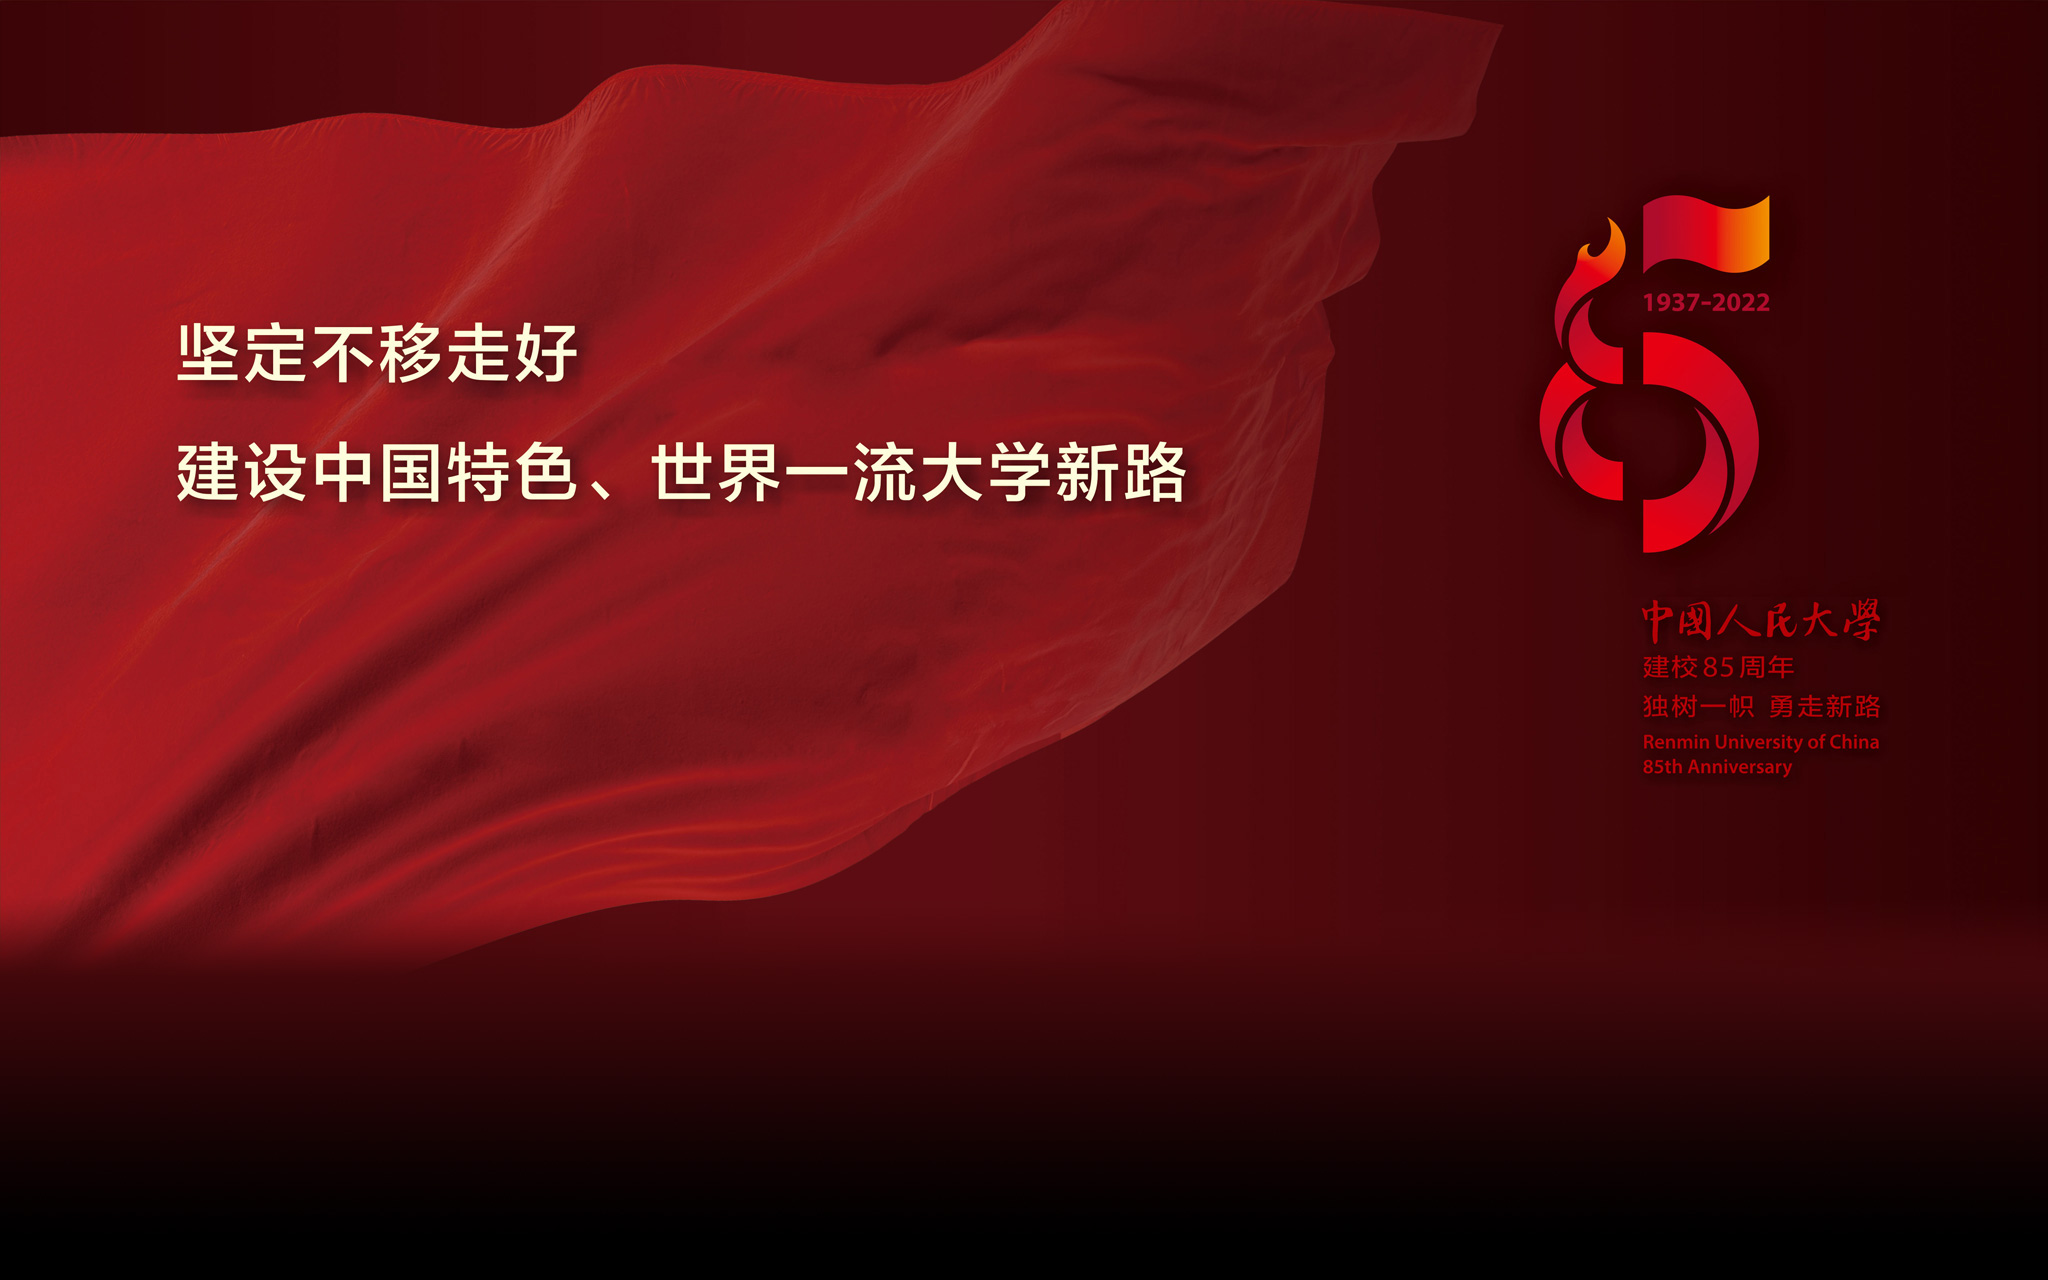
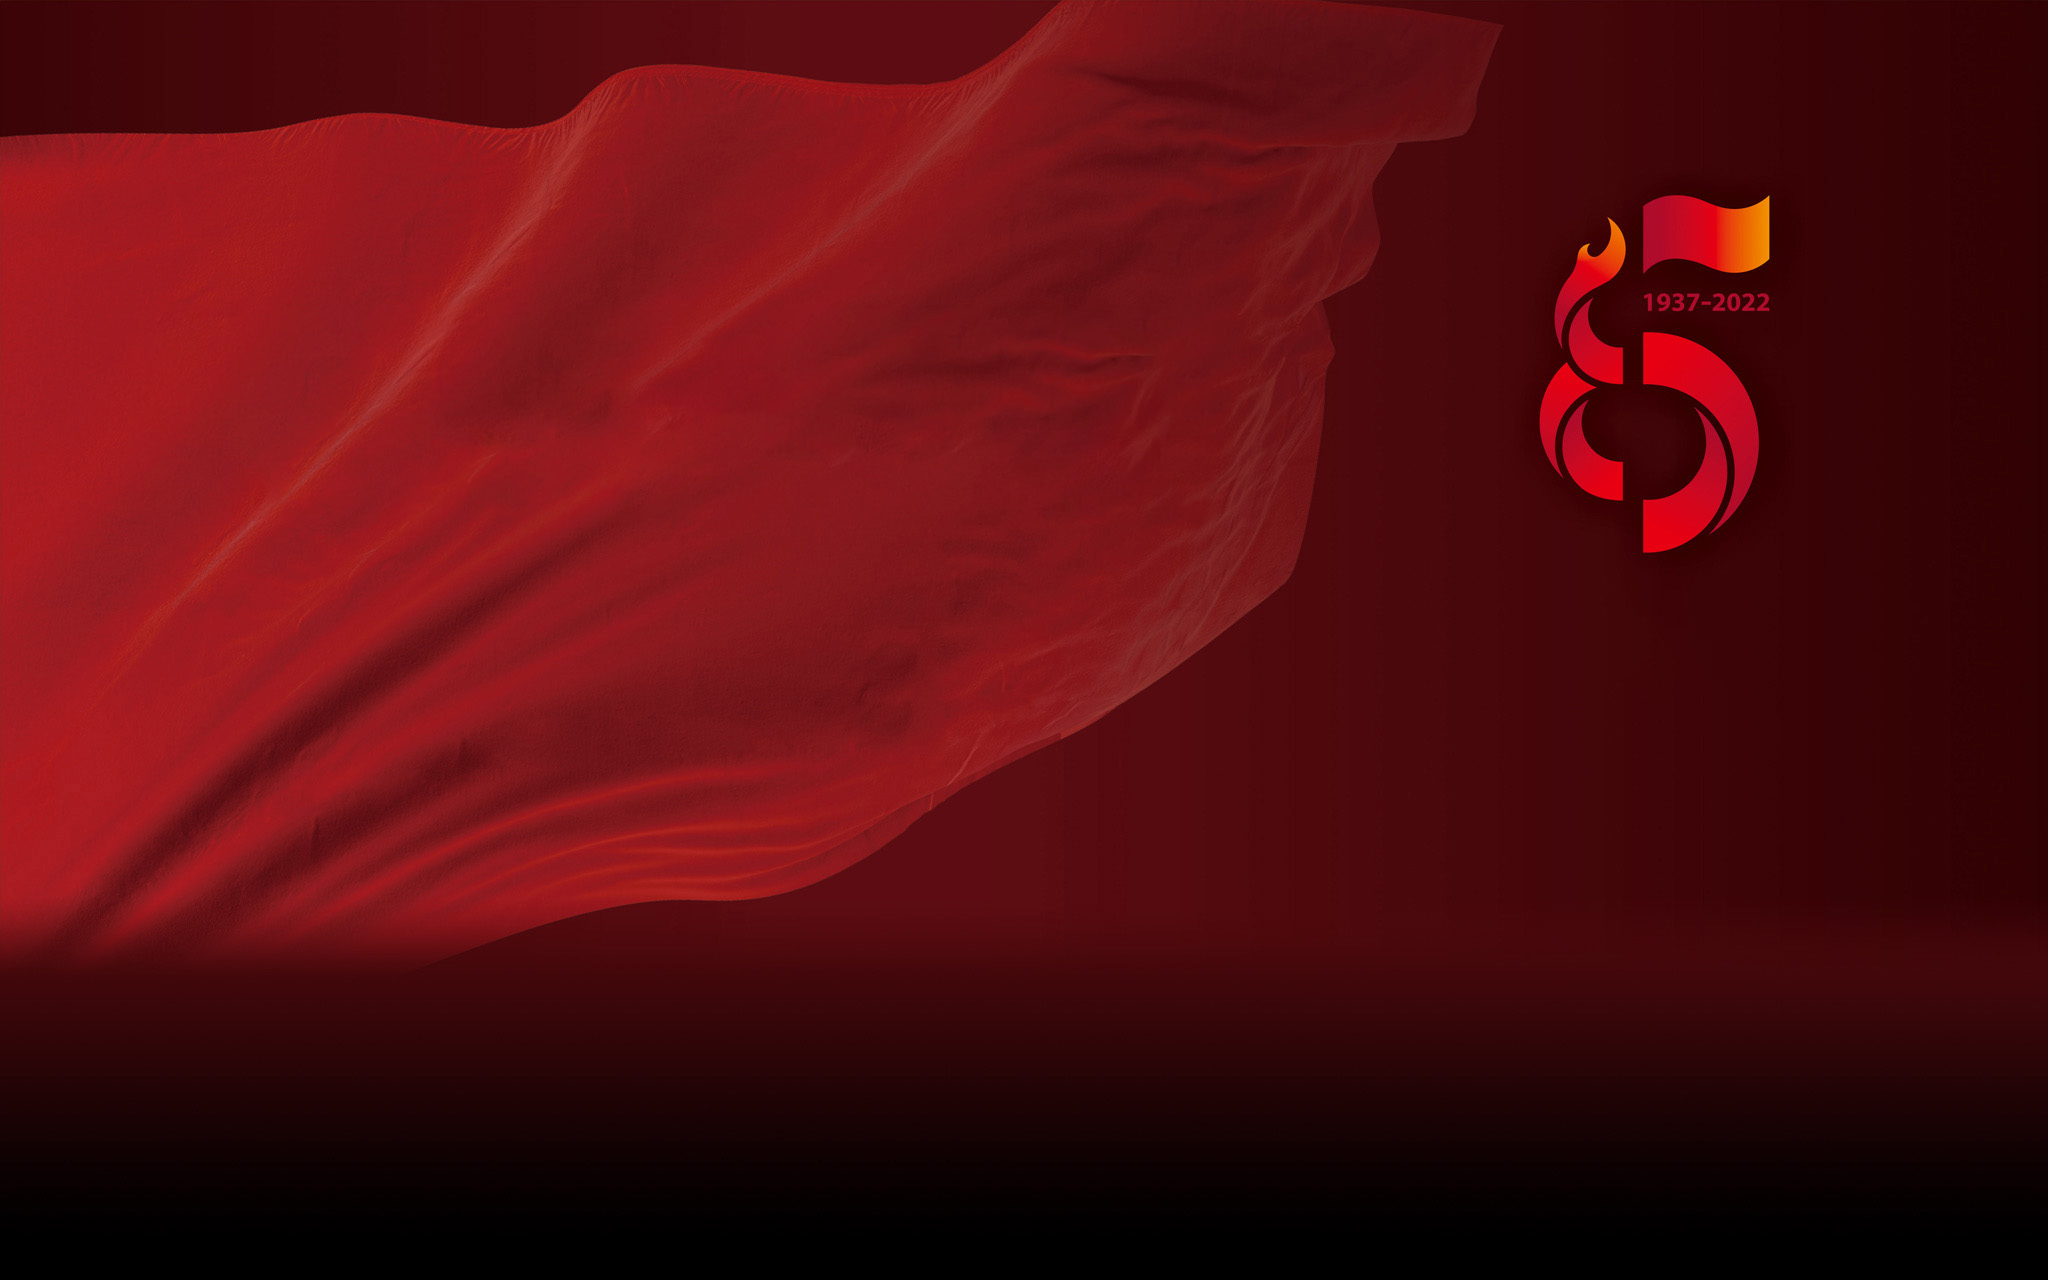
asdf
asdf

Changed region(s): [[0.0625, 0.25, 0.5938, 0.4062], [0.7812, 0.4688, 0.9375, 0.625], [0.0625, 0.25, 0.2812, 0.3125]]

diff --git a/renmin/css/renmin.css b/renmin/css/renmin.css
@@ -349,16 +349,16 @@ body {
     color: rgb(0, 0, 0);
   }
   
-  .map{
-    text-align: center;
-    position: absolute;
-    bottom: 12vh;
-    left: 0;
+.map{
+  text-align: center;
+  position: absolute;
+  left: 0;
+  bottom: 95px;
 }
 
 .map iframe{
-    border-radius: 5%;
-    margin: 5%;
+  border-radius: 5%;
+  margin: 2%;
 }
 /* gnb end */
 
@@ -377,24 +377,42 @@ body {
   height: 120vh;
 } */
 
+
+/* slide1 */
 .slide1{
     /* background: url(../img/ruc_bg_506.jpg) no-repeat center/cover; */
-    background-image: linear-gradient( rgba(0, 0, 0, 0.5), rgba(0, 0, 0, 0.5) ), url(../img/ruc_bg_506.jpg);
+    background-image: url(../img/85.jpg);
     background-repeat: no-repeat;
     background-position: center;
     background-size: cover;
 }
+
+.slide1 span{
+  /* flex-direction: column;
+  align-items: flex-start; */
+}
+
+
+
+
+
+
+
+
+
+
+
 .slide2{
     /* background: url(../img/ruc_bg_507.jpg) no-repeat center/cover; */
-    background-image: linear-gradient( rgba(0, 0, 0, 0.5), rgba(0, 0, 0, 0.5) ), url(../img/ruc_bg_507.jpg);
+    background-image: url(../img/building.jpg);
     background-repeat: no-repeat;
-    background-position: center;
+    background-position: top;
     background-size: cover;
 
 }
 .slide3{
     /* background: url(../img/ruc_bg_510.jpg) no-repeat center/cover; */
-    background-image: linear-gradient( rgba(0, 0, 0, 0.5), rgba(0, 0, 0, 0.5) ), url(../img/ruc_bg_510.jpg);
+    background-image: linear-gradient( rgba(0, 0, 0, 0.5), rgba(0, 0, 0, 0.5) ), url(../img/ruc_bg_506.jpg);
     background-repeat: no-repeat;
     background-position: center;
     background-size: cover;
@@ -418,13 +436,17 @@ body {
     background-color: #000;
 }
 
-.info, .fp-tableCell{
-    height: 100px !important;
-    display: flex;
-    color: #fff;
-    font-size: 10px;
-    width: 100%;
-    justify-content: space-around;
+.info{
+  width: 100%;
+  color: #fff;
+  font-size: 10px;
+}
+
+.fp-tableCell{
+  height: 100px !important;
+  justify-content: space-around;
+  display: flex;
+
 }
 
 .add, .mnu{

diff --git a/renmin/renmin.html b/renmin/renmin.html
@@ -116,10 +116,11 @@
                             <!-- intro -->
                             <div class="section">
                                 <div class="slide slide1">
-                                    <!-- <img src="./img/ruc_bg_506.jpg" alt=""> -->
+                                    <span>변치 않게 좋은 길로 가고</span>
+                                    <span>중국의 특색과 세계 일류대학으로 가는 새로운 길을 건설하다</span>
                                 </div>
-                                <div class="slide slide2">lololo</div>
-                                <div class="slide slide3">lilili</div>
+                                <div class="slide slide2"></div>
+                                <div class="slide slide3"></div>
                             </div>
                             <!-- school info -->
                             <div class="section">
